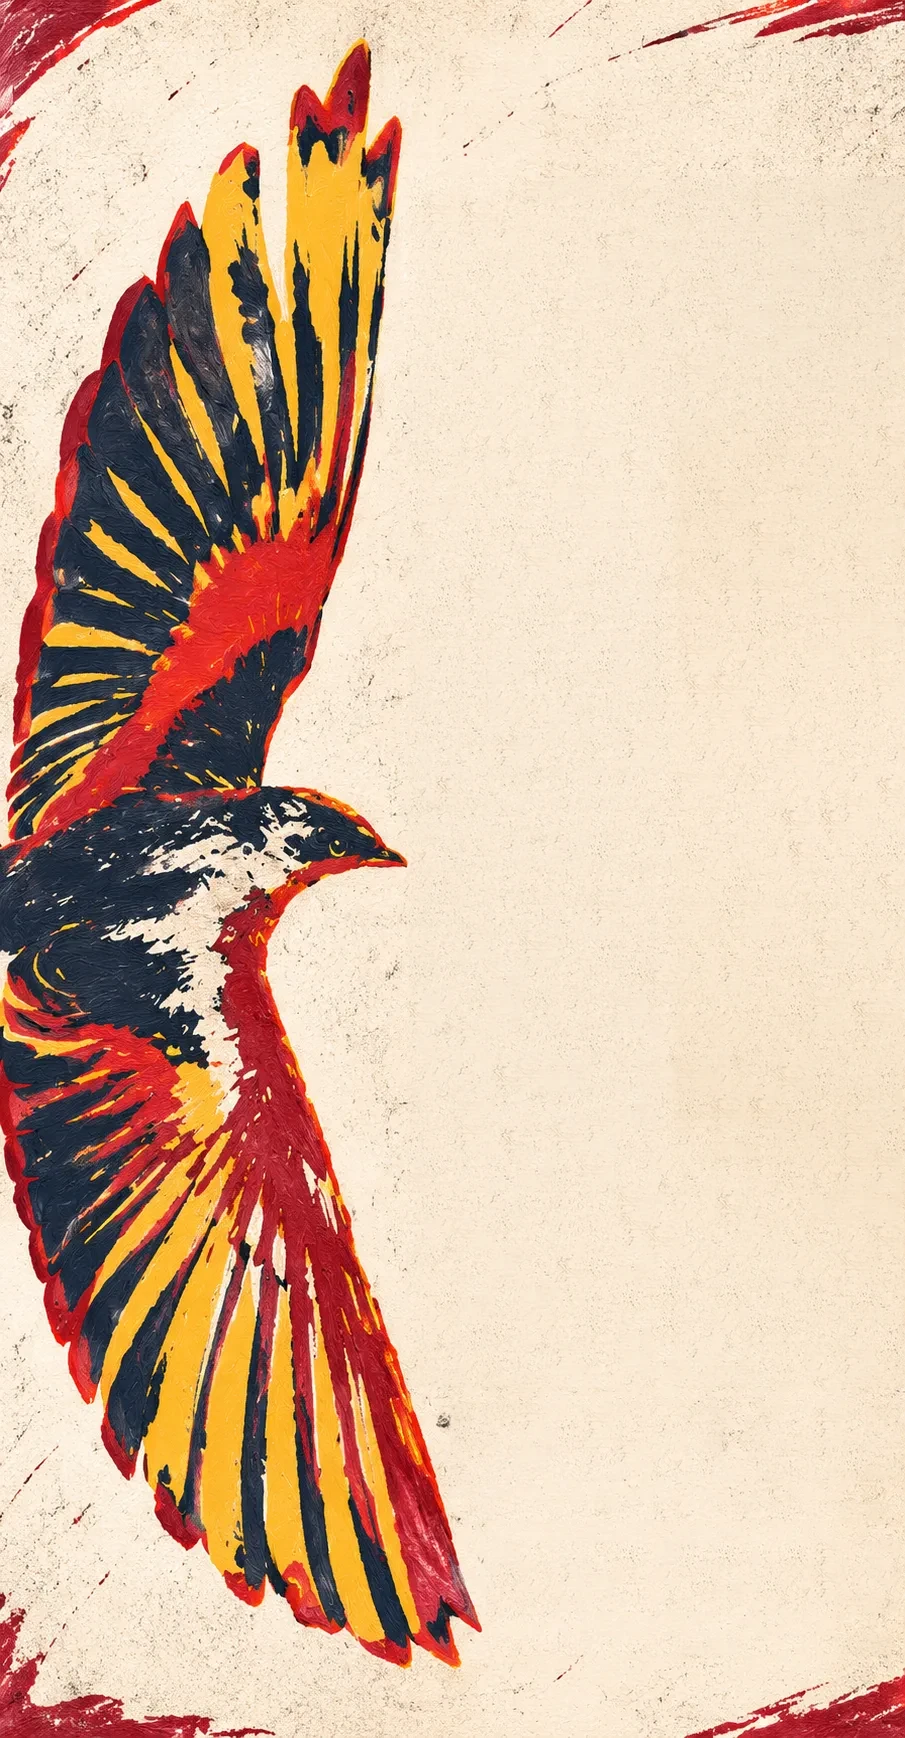
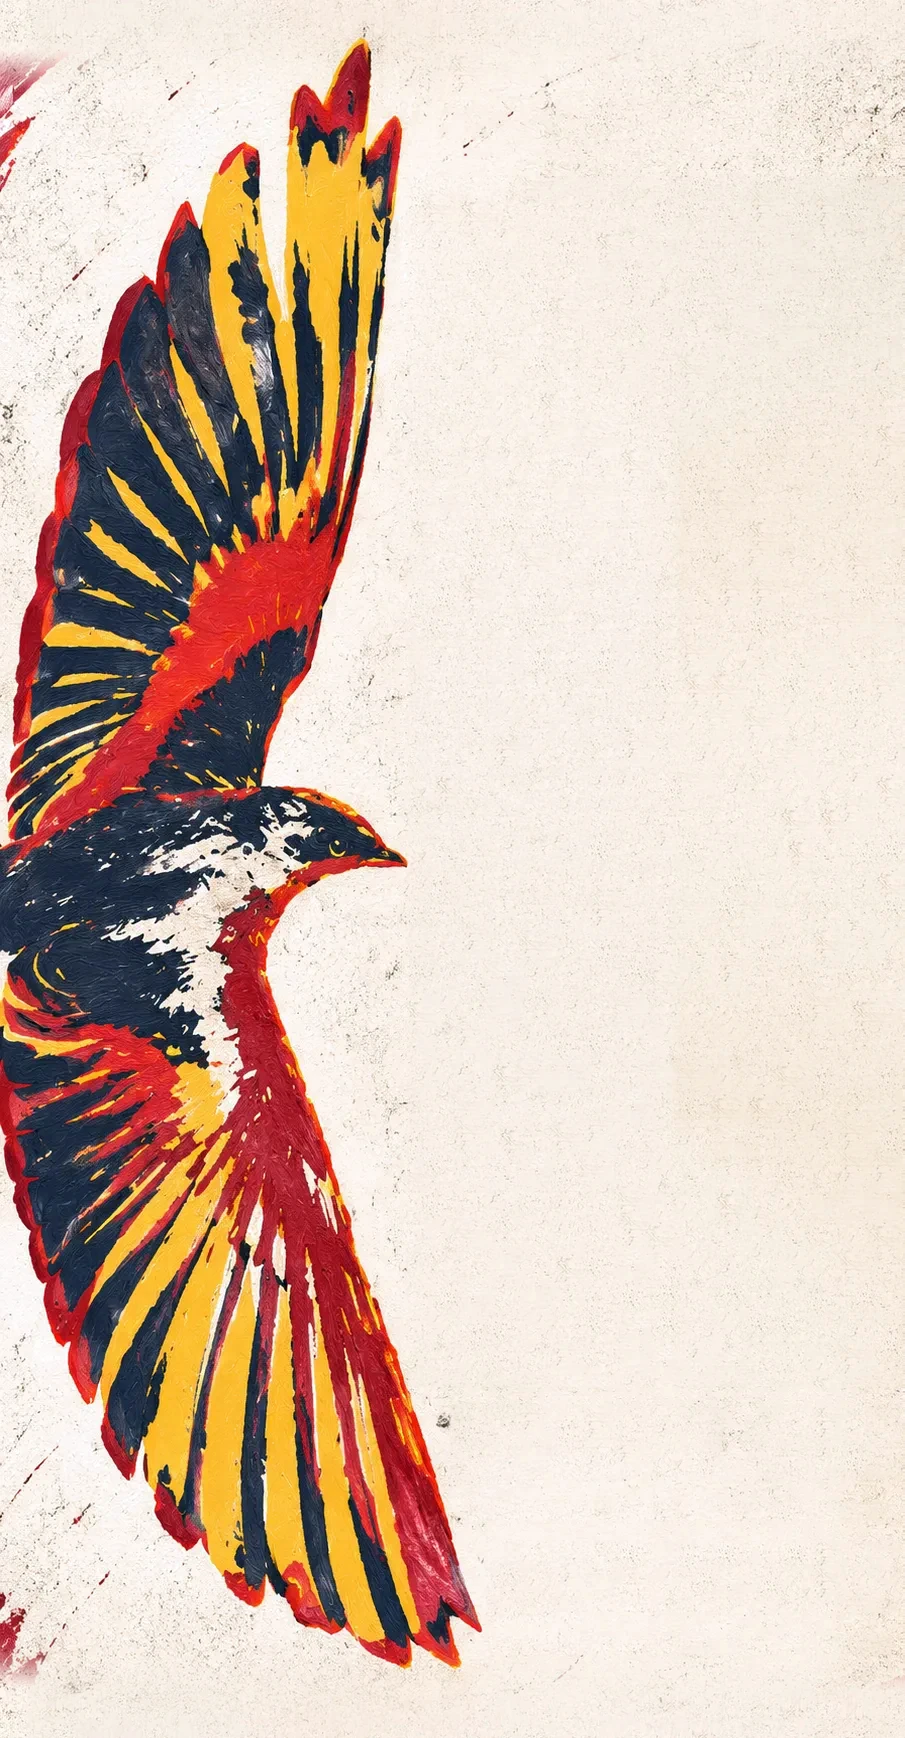
chore(downcloud): seamless artwork joins, one long page (1.1.1)
Hero's bottom and the bird page's top and bottom edges now fade into one
shared strip of real paper, so hero -> bird -> bird pages read as one
continuous page. The bird page gets a white-balance gain to match the
hero's paper, and its red corner strokes taper out before the edges.
Image sizes are unchanged, so no layout coordinates move.

Changed region(s): [[0.0, 0.9321, 1.0, 1.0], [0.0, 0.0, 1.0, 0.0621]]

diff --git a/DownCloud/CLAUDE.md b/DownCloud/CLAUDE.md
@@ -1,6 +1,6 @@
 # DownCloud: notes for Claude
 
-SoundCloud track/playlist link → MP3s with embedded cover + ID3 tags (title, artist, album, track n/total, year, genre). Electron window around a loopback-only Node server (`server.js`, stdlib only); ffmpeg comes from ffmpeg-static. Current release: **1.1.0**.
+SoundCloud track/playlist link → MP3s with embedded cover + ID3 tags (title, artist, album, track n/total, year, genre). Electron window around a loopback-only Node server (`server.js`, stdlib only); ffmpeg comes from ffmpeg-static. Current release: **1.1.1**.
 
 ## Where things live
 
@@ -28,6 +28,7 @@ SoundCloud track/playlist link → MP3s with embedded cover + ID3 tags (title, a
 - **`hero.webp`:** the first screen (trumpet player). It holds the link field, the Convert button, the "Downloadable Tracks" heading and the first 4 tracks, plus a "⤓ ZIP" button and a status line that weren't in the mockup.
 - **`tracks.webp`:** bird pages for tracks 5 and up, 11 rows per page. Rows 10–11 step right (`margin-left` 35/70 u) around the wing tip, and their row rules start later.
 - **How the art was made:** both files are Oscar's mockups with the placeholder rows erased. The fill is smooth paper colour from the surrounding paper plus grain quilted from clean paper patches. For new art, measure the element boxes, erase placeholders the same way, then update the coordinates.
+- **Seamless joins (since 1.1.1):** hero's bottom 110 rows and tracks' top and bottom 110 rows fade into one shared strip of real paper, so hero → bird → bird reads as one long page. tracks.webp also carries one white-balance gain so its paper matches hero's, and its red corner strokes taper out before the edges. Redo this if the art changes.
 - **Row icons:** `tile-small.png` and `tile-big.png` are the cloud icons cropped from the mockups, with alpha. Rows show these, not track covers; covers are still embedded in the MP3s.
 - **Window:** content height is 90% of the work area, with the aspect ratio locked to 906/1735 so the first screen fills it exactly.
 - **Zip entries:** named `Artist - Title.mp3` with **no number prefix**, which Oscar explicitly asked for. Repeated names get " (2)". Track order lives in the ID3 tags.

diff --git a/DownCloud/README.md b/DownCloud/README.md
@@ -4,8 +4,8 @@ Paste a SoundCloud track or playlist link and get MP3s with cover art and tags. 
 
 ## Download
 
-- Mac (Apple Silicon): https://github.com/oscallen-creator/VSOA-REA/releases/download/downcloud-v1.1.0/DownCloud-Mac.dmg
-- Windows: https://github.com/oscallen-creator/VSOA-REA/releases/download/downcloud-v1.1.0/DownCloud-Windows.exe
+- Mac (Apple Silicon): https://github.com/oscallen-creator/VSOA-REA/releases/download/downcloud-v1.1.1/DownCloud-Mac.dmg
+- Windows: https://github.com/oscallen-creator/VSOA-REA/releases/download/downcloud-v1.1.1/DownCloud-Windows.exe
 - All versions: https://github.com/oscallen-creator/VSOA-REA/releases?q=downcloud
 
 ## First launch
